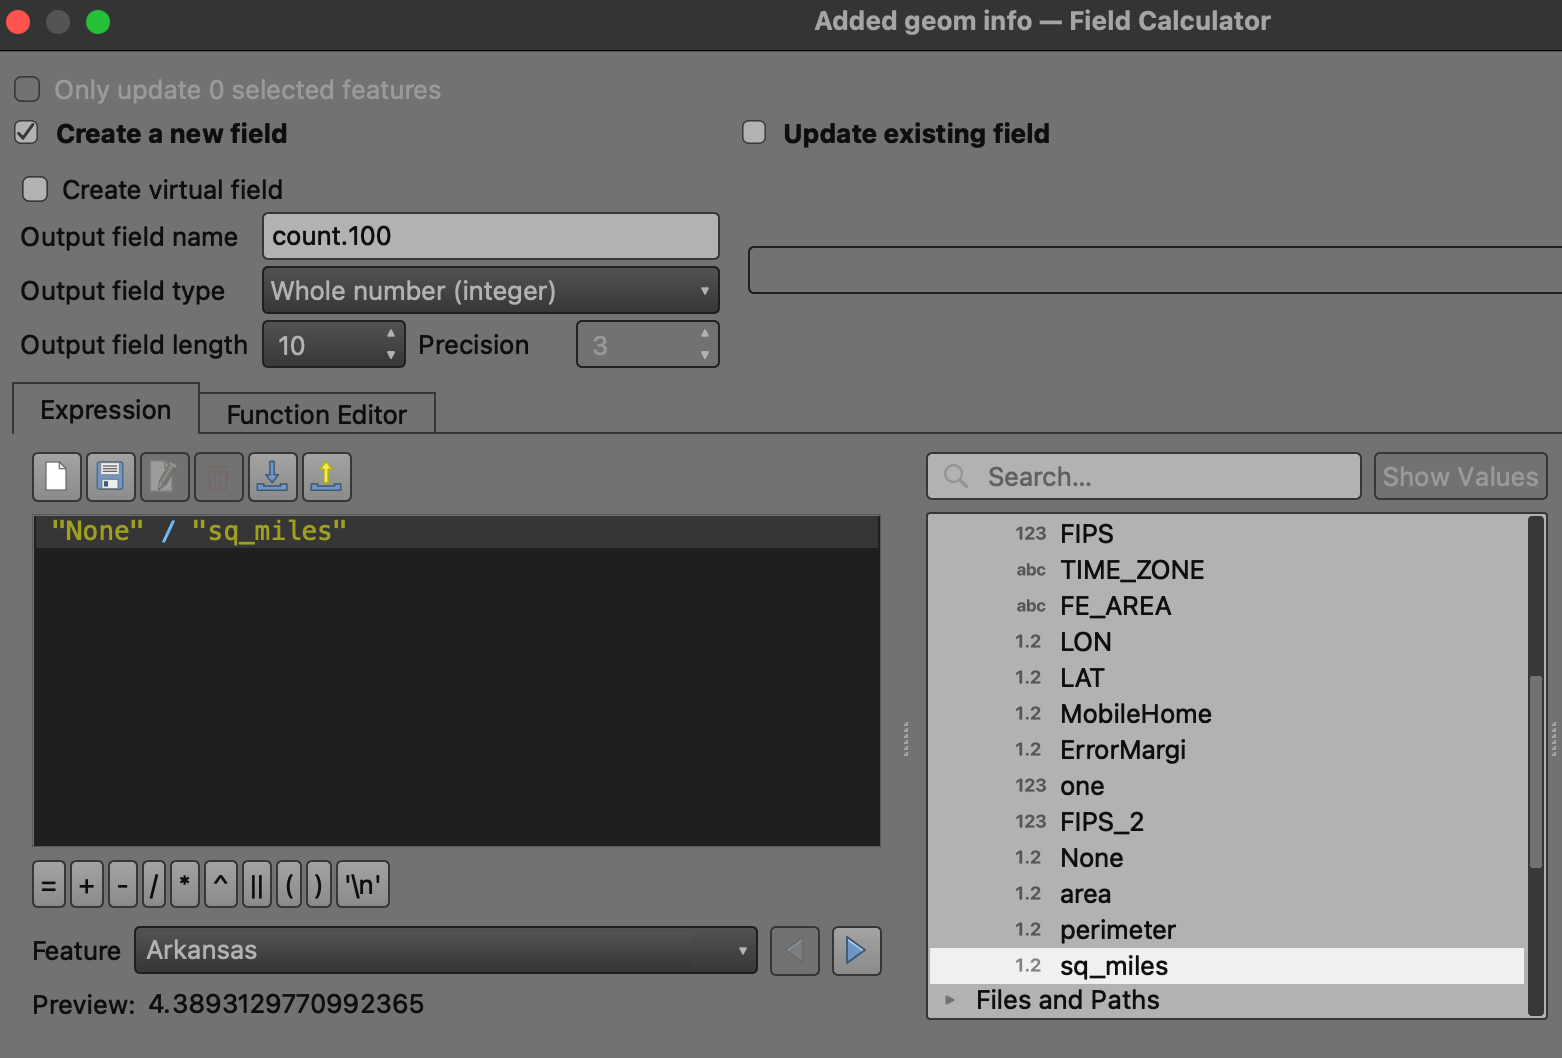
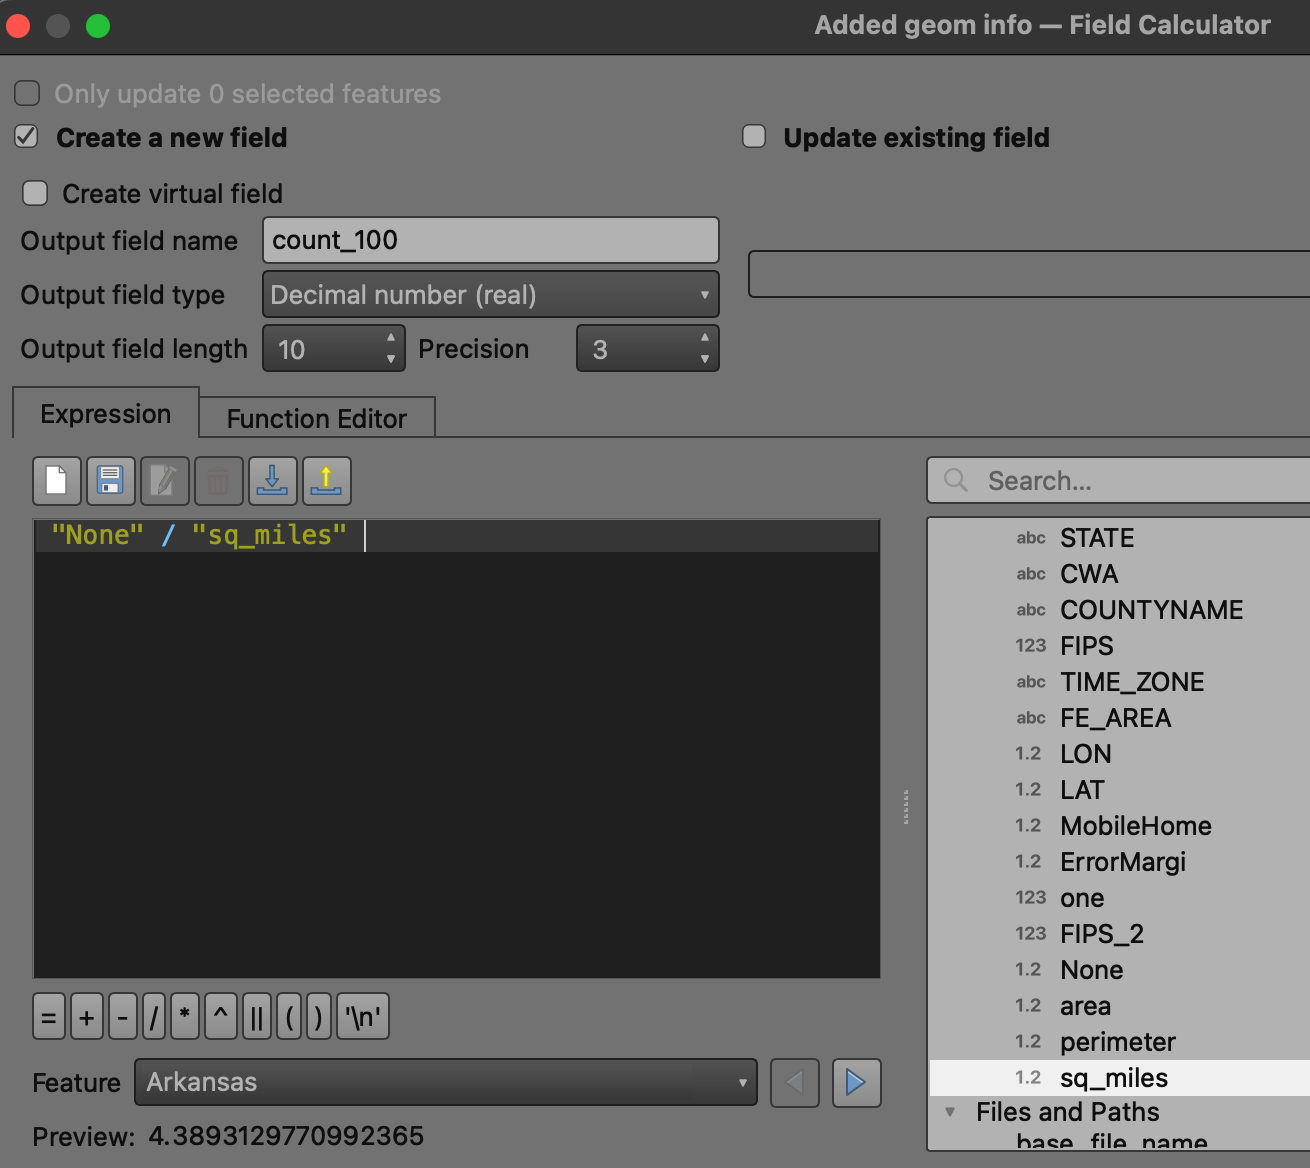
c9 assignment revisions

diff --git a/assignments/c9_assignment_spring_23_NINT5380.html b/assignments/c9_assignment_spring_23_NINT5380.html
@@ -374,7 +374,7 @@ Note
 <p></p><figcaption class="figure-caption"><em>table calculation preparation for final normalization - tornadoes per 100 square miles</em></figcaption><p></p>
 </figure>
 </div>
-<p>Finally, normalize the tornado count per 100 county miles within a new field <code>count.100</code>, type whole number:</p>
+<p>Finally, normalize the tornado count per 100 county miles within a new field <code>count_100</code>, type whole number:</p>
 <div class="quarto-figure quarto-figure-center">
 <figure class="figure">
 <p><img src="c9_assignment_spring_23_NINT5380_files/img/cal.png" class="img-fluid figure-img"></p>
@@ -397,7 +397,7 @@ Note
 </section>
 <section id="assignment-step-6---rank-assignments" class="level2">
 <h2 class="anchored" data-anchor-id="assignment-step-6---rank-assignments">Assignment Step 6 - Rank Assignments</h2>
-<p>In this next step, 4 total rank assignments will be given to a new column <code>risk.rank</code> based on a series of selections.</p>
+<p>In this next step, 4 total rank assignments will be given to a new column <code>risk_rank</code> based on a series of selections.</p>
 <blockquote class="blockquote">
 <p>Use the median societal exposure and tornado incidence scores as the break between high and low exposure and incidence - <a href="https://www.scribd.com/document/361951273/Tornado-Vulnerability-in-Texas">source</a>.</p>
 </blockquote>
@@ -405,34 +405,37 @@ Note
 <li>4 Rank Conditions:</li>
 </ul>
 <blockquote class="blockquote">
-<p>11.10% = Median Mobile Home per County 3 = Median Tornado segments per 100 miles, per county (when producing this statistic, NULL values are assumed to be value 0.</p>
+<p>11.22% = Median Mobile Home percentage per County</p>
+</blockquote>
+<blockquote class="blockquote">
+<p>3.22 Median Tornado segments per 100 miles, per county (when producing this statistic, NULL values are assumed to be value 0.</p>
 </blockquote>
 <pre><code>
 Condition #1 -
 Low Incidence, Low Exposure
-LI = &lt;3
-LE = &lt;11
+LI = &lt;3.22
+LE = &lt;11.22
 
 
 Condition #2 -
 Low Incidence, High Exposure
-LI = &lt;3
-HE = &gt;=11
+LI = &lt;3.22
+HE = &gt;=11.22
 
 
 Condition #3 -
 High Incidence, Low Exposure
-HI = &gt;=3
-LE = &lt;11
+HI = &gt;=3.22
+LE = &lt;11.22
 
 
 Condition #4 -
 High Incidence, High Exposure
-HI = &gt;=3
-HE = &gt;=11
+HI = &gt;=3.22
+HE = &gt;=11.22
 </code></pre>
-<p>Utilize fields <code>count.100</code> and <code>MobileHome</code> for <strong>Incidence</strong> and <strong>Exposure</strong>, respectively.</p>
-<p>To Start, make each selection condition #1 through #4 within <code>count.100</code> and <code>MobileHome</code>. Create a new column <code>risk.rank</code>, type whole number and make assignment 1, 2 , 3 and 4 in this new column based on each selection, respectively.</p>
+<p>Utilize fields <code>count_100</code> and <code>MobileHome</code> for <strong>Incidence</strong> and <strong>Exposure</strong>, respectively.</p>
+<p>To Start, make each selection condition #1 through #4 within <code>count_100</code> and <code>MobileHome</code>. Create a new column <code>risk_rank</code>, type whole number and make assignment 1, 2 , 3 and 4 in this new column based on each selection, respectively.</p>
 <blockquote class="blockquote">
 <p>Populate with value -999 to start. Any records with -999 resulting are simply the NULL values - counties that have no tornadoes. Those can either be symbolized in the final map as ‘low’ or as ‘No Incidence Records’:</p>
 </blockquote>
@@ -443,11 +446,11 @@ HE = &gt;=11
 </figure>
 </div>
 <p>Selection and Assignments for Conditions:</p>
-<p>Make sure to clear selections after each condition is assigned in <code>risk.rank</code> and <em>Toogle Off</em> and save each assignment before proceeding to next assignment:</p>
+<p>Make sure to clear selections after each condition is assigned in <code>risk.rank</code>:</p>
 <ul>
 <li><p>Condition #1 -</p>
 <ul>
-<li>Select by Expression: <code>"count.100" &lt;3 and  "MobileHome" &lt;11</code></li>
+<li>Select by Expression: <code>""MobileHome" &lt;11.22 and  "count_100" &lt;3.22</code></li>
 <li>Field Calculator within <code>risk.rank</code> = 1</li>
 </ul></li>
 </ul>
@@ -457,11 +460,11 @@ HE = &gt;=11
 <p></p><figcaption class="figure-caption"><em>Condition 1</em></figcaption><p></p>
 </figure>
 </div>
-<p>Condition <code>1</code> should result in <code>454</code> records assigned this #1 Low Incidence, Low Exposure rank.</p>
+<p>Condition <code>1</code> should result in <code>629</code> records assigned this #1 Low Incidence, Low Exposure rank.</p>
 <ul>
 <li><p>Condition #2 -</p>
 <ul>
-<li>Select by Expression: <code>"count.100" &lt;3 and  "MobileHome" &gt;=11</code></li>
+<li>Select by Expression: <code>"MobileHome" &gt;=11.22 and  "count_100" &lt;3.22</code></li>
 <li>Field Calculator within <code>risk.rank</code>:</li>
 </ul></li>
 </ul>
@@ -471,11 +474,11 @@ HE = &gt;=11
 <p></p><figcaption class="figure-caption"><em>Condition 2</em></figcaption><p></p>
 </figure>
 </div>
-<p>Condition <code>2</code> should result in <code>716</code> records assigned this #2 Low Incidence, High Exposure rank.</p>
+<p>Condition <code>2</code> should result in <code>889</code> records assigned this #2 Low Incidence, High Exposure rank.</p>
 <ul>
 <li><p>Condition #3 -</p>
 <ul>
-<li>Select by Expression: <code>"count.100" &gt;=3 and  "MobileHome" &lt;11</code></li>
+<li>Select by Expression: <code>"MobileHome" &lt;11.22 and  "count_100" &gt;=3.22</code></li>
 <li>Field Calculator within <code>risk.rank</code>:</li>
 </ul></li>
 </ul>
@@ -485,11 +488,11 @@ HE = &gt;=11
 <p></p><figcaption class="figure-caption"><em>Condition 3</em></figcaption><p></p>
 </figure>
 </div>
-<p>Condition <code>3</code> should result in <code>990</code> records assigned this #3 High Incidence, Low Exposure rank.</p>
+<p>Condition <code>3</code> should result in <code>849</code> records assigned this #3 High Incidence, Low Exposure rank.</p>
 <ul>
 <li><p>Condition #4 -</p>
 <ul>
-<li>Select by Expression: <code>"count.100" &gt;=3 and  "MobileHome" &gt;=11</code></li>
+<li>Select by Expression: <code>"MobileHome" &gt;=11.22 and  "count_100" &gt;=3.22</code></li>
 <li>Field Calculator within <code>risk.rank</code>:</li>
 </ul></li>
 </ul>
@@ -499,7 +502,7 @@ HE = &gt;=11
 <p></p><figcaption class="figure-caption"><em>Condition 4</em></figcaption><p></p>
 </figure>
 </div>
-<p>Condition <code>4</code> should result in <code>863</code> records assigned this #4 High Incidence, High Exposure rank.</p>
+<p>Condition <code>4</code> should result in <code>656</code> records assigned this #4 High Incidence, High Exposure rank.</p>
 </section>
 <section id="assignment-step-7---thematic-design" class="level2">
 <h2 class="anchored" data-anchor-id="assignment-step-7---thematic-design">Assignment Step 7 - Thematic Design</h2>
